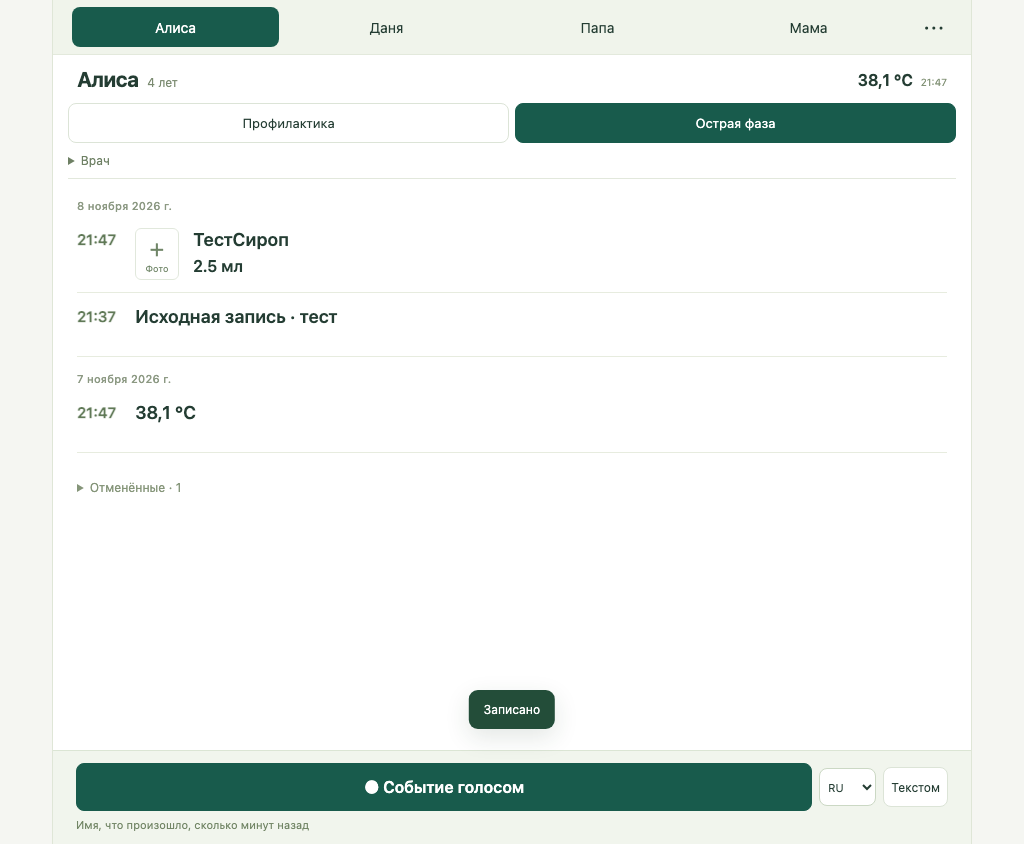
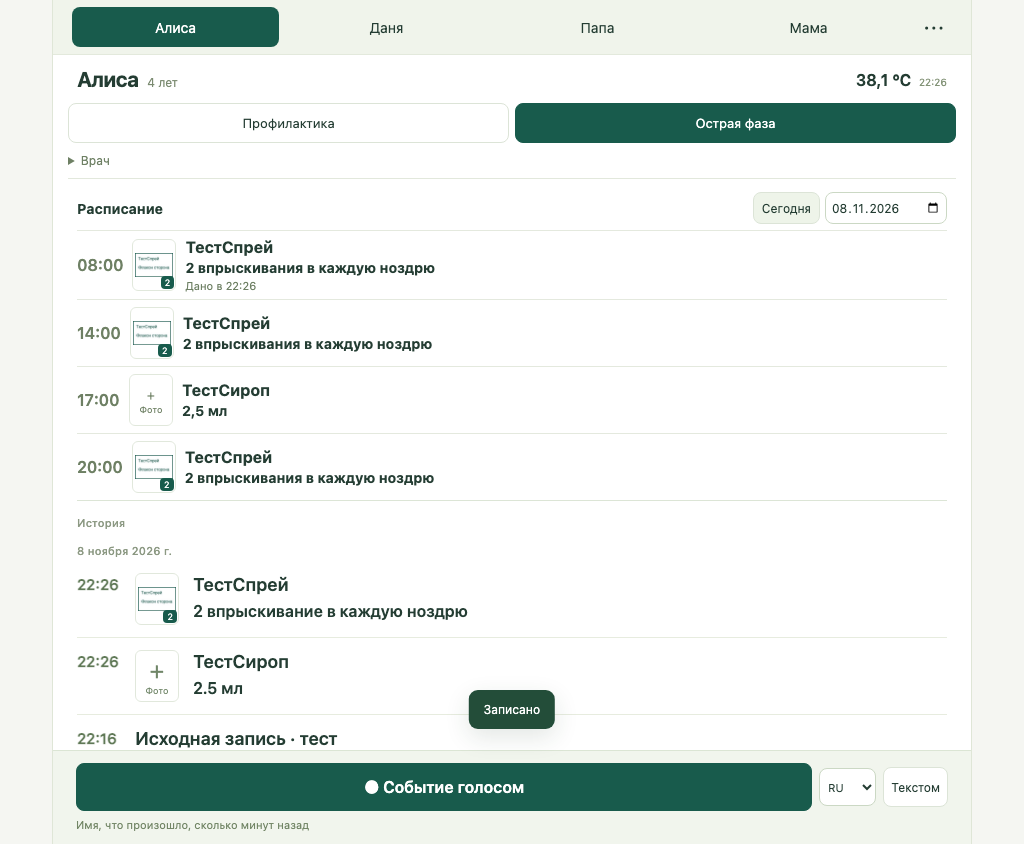
Show saved medication schedules on the patient screen

diff --git a/site/public/app.js b/site/public/app.js
@@ -2,7 +2,7 @@ import {captureVoice} from '/voice-capture.js';
 import {prescriptionSummary} from '/prescription-summary.js';
 import {photosForMedicine} from '/medicine-images.js';
 const $=(s,r=document)=>r.querySelector(s),root=$('#app'),modal=$('#modal');
-let state,token='',patientId=localStorage.getItem('medika-patient')||'',phrase='',busy=false,recording=null,voiceAt='',textEntry=false,language=localStorage.getItem('medika-language')||'ru';
+let state,schedule={items:[],prn:[]},scheduleDate='',token='',patientId=localStorage.getItem('medika-patient')||'',phrase='',busy=false,recording=null,voiceAt='',textEntry=false,language=localStorage.getItem('medika-language')||'ru';
 const kinds={temperature:'Температура',diarrhea:'Диарея',vomiting:'Рвота',retching:'Позывы к рвоте',inhalation:'Ингаляция',medication:'Лекарство',other:'Другое'};
 const phases={'':'Не выбран',prevention:'Профилактика',acute:'Острая фаза'};
 const units=['мл','мг','свеча','табл.','капс.','кап.','впрыскивание','пакет','доза','г','мкг','нанесение'];
@@ -10,6 +10,7 @@ const e=s=>String(s??'').replace(/[&<>"']/g,c=>({'&':'&amp;','<':'&lt;','>':'&gt
 const label=p=>p?.displayName||p?.name||'';
 const person=id=>state.people.find(p=>p.id===id),current=()=>person(patientId);
 const tz=()=>Intl.DateTimeFormat().resolvedOptions().timeZone||'Europe/Chisinau';
+const today=()=>new Date().toLocaleDateString('sv-SE',{timeZone:tz()});
 const key=()=>Date.now().toString(36)+'-'+Math.random().toString(36).slice(2);
 const value=r=>r.celsius.toLocaleString('ru-RU',{minimumFractionDigits:1,maximumFractionDigits:2})+' °C';
 const time=r=>new Date(r.occurredAt).toLocaleTimeString('ru-RU',{timeZone:r.timeZone,hour:'2-digit',minute:'2-digit'});
@@ -32,18 +33,30 @@ function records(id=patientId){
 function title(r){return r.kind==='temperature'?value(r):r.kind==='inhalation'?'Ингаляция · '+r.name:r.name||kinds[r.kind];}
 function amount(r){return [r.amount,r.unit,r.doseScope==='each-nostril'?'в каждую ноздрю':''].filter(Boolean).join(' ');}
 async function refresh(){
-  state=await api('/state');
+  const date=scheduleDate||today(),[nextState,nextSchedule]=await Promise.all([api('/state'),api('/schedule?date='+date)]);state=nextState;schedule={...nextSchedule,date};
   if(!person(patientId)){const latest=[...(state.activities||[]),...(state.temperatures||[]),...state.events].sort((a,b)=>b.occurredAt.localeCompare(a.occurredAt))[0];patientId=latest?.personId||state.people.find(p=>p.name==='Алиса')?.id||state.people[0]?.id||'';}
   if(patientId)localStorage.setItem('medika-patient',patientId);render();
 }
 function render(){
   if(!state.people.length){root.innerHTML='<main class="start"><h1>Медика</h1><button data-act="person">Добавить пациента</button></main>';return;}
   const p=current(),all=records(),active=all.filter(r=>r.status!=='void'),cancelled=all.filter(r=>r.status==='void'),last=active.find(r=>r.kind==='temperature');
-  root.innerHTML=`<div class="patient-app"><header class="patient-nav" aria-label="Пациенты">${state.people.map(p=>`<button data-patient="${p.id}" aria-pressed="${p.id===patientId}" ${busy||recording?'disabled':''}>${e(label(p))}</button>`).join('')}<button class="more" data-act="tools" aria-label="Ещё">⋯</button></header><section class="patient-summary"><h1>${e(label(p))}${p.ageYears!=null?`<small>${p.ageYears} лет</small>`:''}</h1>${last?`<span class="last-temperature">${value(last)} <time>${time(last)}</time></span>`:''}</section><div class="phase-switch" role="group" aria-label="Режим лечения">${['prevention','acute'].map(v=>`<button type="button" data-care-phase="${v}" aria-pressed="${p.carePhase===v}" ${busy||recording?'disabled':''}>${e(phases[v])}</button>`).join('')}</div><details class="doctor"><summary>Врач</summary><div class="doctor-body">${doctorPlan()}<div class="source-actions"><button data-act="upload">Выписка</button><button data-act="rx">Назначение</button></div></div></details><main class="patient-history" aria-label="История пациента">${active.length?historyRows(active):'<p class="quiet">Событий пока нет</p>'}${cancelled.length?`<details class="cancelled"><summary>Отменённые · ${cancelled.length}</summary>${historyRows(cancelled)}</details>`:''}</main><form id="composer" class="composer" aria-label="Общее событие для семьи"><div class="composer-actions"><button type="button" class="voice ${recording?'recording':''}" data-act="voice" ${busy?'disabled':''}>${recording?'■ Отправить':'● Событие голосом'}</button><select id="language" aria-label="Язык диктовки" ${busy||recording?'disabled':''}><option value="ru" ${language==='ru'?'selected':''}>RU</option><option value="en" ${language==='en'?'selected':''}>EN</option></select><button type="button" class="text-toggle" data-act="text" ${busy||recording?'disabled':''}>Текстом</button></div><div class="voice-status" role="status">${busy?'Распознаю и записываю…':recording?'Скажите имя и событие · пауза отправит запись':'Имя, что произошло, сколько минут назад'}</div>${textEntry?`<div class="text-entry"><textarea id="phrase" name="text" rows="1" placeholder="Даня, две минуты назад температура 38,2" aria-label="Запись одной фразой" ${busy||recording?'disabled':''}>${e(phrase)}</textarea><button type="submit" class="primary" ${busy||recording?'disabled':''}>Проверить</button></div>`:''}</form></div>`;
+  root.innerHTML=`<div class="patient-app"><header class="patient-nav" aria-label="Пациенты">${state.people.map(p=>`<button data-patient="${p.id}" aria-pressed="${p.id===patientId}" ${busy||recording?'disabled':''}>${e(label(p))}</button>`).join('')}<button class="more" data-act="tools" aria-label="Ещё">⋯</button></header><section class="patient-summary"><h1>${e(label(p))}${p.ageYears!=null?`<small>${p.ageYears} лет</small>`:''}</h1>${last?`<span class="last-temperature">${value(last)} <time>${time(last)}</time></span>`:''}</section><div class="phase-switch" role="group" aria-label="Режим лечения">${['prevention','acute'].map(v=>`<button type="button" data-care-phase="${v}" aria-pressed="${p.carePhase===v}" ${busy||recording?'disabled':''}>${e(phases[v])}</button>`).join('')}</div><details class="doctor"><summary>Врач</summary><div class="doctor-body">${doctorPlan()}<div class="source-actions"><button data-act="upload">Выписка</button><button data-act="rx">Назначение</button></div></div></details><main class="patient-history" aria-label="Расписание и история пациента">${patientSchedule()}${schedule.items.some(r=>r.personId===patientId)||schedule.prn.some(r=>r.personId===patientId)?'<h2 class="day">История</h2>':''}${active.length?historyRows(active):'<p class="quiet">Событий пока нет</p>'}${cancelled.length?`<details class="cancelled"><summary>Отменённые · ${cancelled.length}</summary>${historyRows(cancelled)}</details>`:''}</main><form id="composer" class="composer" aria-label="Общее событие для семьи"><div class="composer-actions"><button type="button" class="voice ${recording?'recording':''}" data-act="voice" ${busy?'disabled':''}>${recording?'■ Отправить':'● Событие голосом'}</button><select id="language" aria-label="Язык диктовки" ${busy||recording?'disabled':''}><option value="ru" ${language==='ru'?'selected':''}>RU</option><option value="en" ${language==='en'?'selected':''}>EN</option></select><button type="button" class="text-toggle" data-act="text" ${busy||recording?'disabled':''}>Текстом</button></div><div class="voice-status" role="status">${busy?'Распознаю и записываю…':recording?'Скажите имя и событие · пауза отправит запись':'Имя, что произошло, сколько минут назад'}</div>${textEntry?`<div class="text-entry"><textarea id="phrase" name="text" rows="1" placeholder="Даня, две минуты назад температура 38,2" aria-label="Запись одной фразой" ${busy||recording?'disabled':''}>${e(phrase)}</textarea><button type="submit" class="primary" ${busy||recording?'disabled':''}>Проверить</button></div>`:''}</form></div>`;
   $('#composer').onsubmit=event=>{event.preventDefault();parsePhrase();};
   if($('#phrase'))$('#phrase').oninput=event=>phrase=event.target.value;
+  if($('#schedule-date'))$('#schedule-date').onchange=event=>changeScheduleDate(event.target.value);
+  if($('#schedule-today'))$('#schedule-today').onclick=()=>changeScheduleDate('');
   $('#language').onchange=event=>{language=event.target.value;localStorage.setItem('medika-language',language);};
   root.querySelectorAll('[data-care-phase]').forEach(button=>button.onclick=async()=>{const carePhase=button.dataset.carePhase;if(busy||recording||carePhase===p.carePhase)return;busy=true;render();try{await api('/people/'+p.id,{method:'PUT',body:{...p,carePhase,version:p.version}});await refresh();}catch(error){toast(error.message);}finally{busy=false;render();$('.doctor').open=true;}});
+}
+async function changeScheduleDate(date){
+  if(busy||recording)return;busy=true;render();
+  try{const chosen=date||today(),result=await api('/schedule?date='+chosen);scheduleDate=date;schedule={...result,date:chosen};}catch(error){toast(error.message);}finally{busy=false;render();}
+}
+function patientSchedule(){
+  const items=schedule.items.filter(r=>r.personId===patientId),prn=schedule.prn.filter(r=>r.personId===patientId);
+  if(!items.length&&!prn.length&&!state.prescriptions.some(r=>r.personId===patientId&&!r.archived))return '';
+  const row=(r,asNeeded=false)=>{const recorded=r.event,status=recorded?({taken:'Дано в '+time(recorded),skipped:'Пропущено',deferred:'Отложено'}[recorded.status]||''):'';return `<div class="schedule-row" data-schedule-rx="${r.rxId||r.id}"><time>${asNeeded?'—':e(r.time)}</time>${medicinePhoto(r.name)}<div><strong>${e(r.name)}</strong><b>${e(prescriptionSummary(r).dose)}</b>${asNeeded?'<span>По необходимости</span>':''}${status?`<span>${e(status)}</span>`:''}</div></div>`;};
+  return `<section class="patient-schedule" aria-label="Расписание приёма"><header><h2>Расписание</h2><button id="schedule-today" type="button" aria-pressed="${schedule.date===today()}" ${busy||recording?'disabled':''}>Сегодня</button><input id="schedule-date" type="date" aria-label="Дата расписания" value="${e(schedule.date)}" min="1900-01-01" max="2200-12-31" ${busy||recording?'disabled':''}></header>${items.map(r=>row(r)).join('')}${prn.map(r=>row(r,true)).join('')}${!items.length&&!prn.length?'<p class="quiet">На эту дату приёмов нет.</p>':''}</section>`;
 }
 let photoClipId=0;
 function medicineImage(photo,name,preview=false){
@@ -88,7 +101,7 @@ function preview(d){
     const body={...data,sourceText:d.sourceText,timeZone:d.timeZone,occurredAt:new Date(data.occurredAt).toISOString(),clientKey};
     if(data.kind!=='temperature')delete body.celsius;
     if(!['medication','inhalation'].includes(data.kind)){body.amount='';body.unit='';body.relatedRxId='';}
-    const record=await api('/entries',{body});patientId=record.personId;phrase='';textEntry=false;modal.close();await refresh();toast('Записано');
+    const record=await api('/entries',{body});patientId=record.personId;phrase='';textEntry=false;await refresh();modal.close();toast('Записано');
   });
   const choose=$('[name="kind"]',modal),update=()=>{for(const part of modal.querySelectorAll('[data-part]')){const visible=part.dataset.part.split(' ').includes(choose.value);part.hidden=!visible;for(const input of part.querySelectorAll('input,select'))input.disabled=!visible;} $('[name="celsius"]',modal).required=choose.value==='temperature';$('[name="name"]',modal).required=['medication','inhalation','other'].includes(choose.value);};choose.onchange=update;update();
   $('[name="personId"]',modal).onchange=()=>{const select=$('[name="relatedRxId"]',modal);select.value='';for(const option of [...select.options].slice(1))option.remove();};
@@ -128,7 +141,7 @@ function documentView(id){const d=state.documents.find(d=>d.id===id);dialog(d.na
 function upload(){dialog('Выписка · '+label(current()),'<label>Фото или текст<input type="file" name="file" accept="image/png,image/jpeg,image/webp"></label><label>Текст<textarea name="text" maxlength="50000"></textarea></label>'+footer('Добавить'),async(data,form)=>{const file=$('[name="file"]',form).files[0];let image;if(file)image=await new Promise((resolve,reject)=>{const reader=new FileReader();reader.onload=()=>resolve(reader.result.split(',')[1]);reader.onerror=reject;reader.readAsDataURL(file);});await api('/documents',{body:{personId:patientId,name:file?.name||'Рекомендация врача',sourceKind:'doctor',...(image?{image}:{text:data.text})}});modal.close();await refresh();$('.doctor').open=true;});}
 function rxForm(id='',suggestion={},documentId=''){
   const r=state.prescriptions.find(r=>r.id===id)||suggestion,p=current();
-  dialog('Назначение врача',`<label>Предписание<select name="carePhase">${Object.entries(phases).map(([v,l])=>`<option value="${v}" ${v===(r.carePhase||p.carePhase||'')?'selected':''}>${l}</option>`).join('')}</select></label><details open><summary>Формулировка врача</summary><p class="source-text">${e(r.sourceText||'')}</p>${field('Условия','conditions',r.conditions,'maxlength="2000"')}${field('Концентрация','strength',r.strength,'maxlength="150"')}</details>${field('Препарат','name',r.name,'required maxlength="200"')}<div class="dose-fields">${field('Доза','dose',r.dose,'inputmode="decimal" required')}<label>Единица<select name="unit">${units.map(u=>`<option ${u===(r.unit||'мл')?'selected':''}>${u}</option>`).join('')}</select></label></div><label>Область дозы<select name="doseScope"><option value="total">Всего</option><option value="each-nostril" ${r.doseScope==='each-nostril'?'selected':''}>В каждую ноздрю</option></select></label>${field('Часы через запятую','times',Array.isArray(r.times)?r.times.join(', '):r.times||'',(r.type==='prn'||r.type==='interval'?'':'required ')+ 'placeholder="По согласованному расписанию"')}<div class="dose-fields">${field('Начало','startDate',r.startDate||'','type="date" required')}${field('Окончание · если известно','endDate',r.endDate||'','type="date"')}</div><label class="check"><input type="checkbox" name="confirmed" required>Сверено с назначением врача</label>${footer()}`,async data=>{await api('/prescriptions'+(id?'/'+id:''),{method:id?'PUT':'POST',body:{...r,...data,personId:p.id,type:r.type||'daily',timeZone:r.timeZone||tz(),confirmed:data.confirmed==='on',ingredients:Array.isArray(r.ingredients)?r.ingredients.join(' + '):r.ingredients||'',documentId:documentId||r.documentId||'',version:r.version,sourceText:r.sourceText||''}});modal.close();await refresh();$('.doctor').open=true;});
+  dialog('Назначение врача',`<label>Предписание<select name="carePhase">${Object.entries(phases).map(([v,l])=>`<option value="${v}" ${v===(r.carePhase||p.carePhase||'')?'selected':''}>${l}</option>`).join('')}</select></label><details open><summary>Формулировка врача</summary><p class="source-text">${e(r.sourceText||'')}</p>${field('Условия','conditions',r.conditions,'maxlength="2000"')}${field('Концентрация','strength',r.strength,'maxlength="150"')}</details>${field('Препарат','name',r.name,'required maxlength="200"')}<div class="dose-fields">${field('Доза','dose',r.dose,'inputmode="decimal" required')}<label>Единица<select name="unit">${units.map(u=>`<option ${u===(r.unit||'мл')?'selected':''}>${u}</option>`).join('')}</select></label></div><label>Область дозы<select name="doseScope"><option value="total">Всего</option><option value="each-nostril" ${r.doseScope==='each-nostril'?'selected':''}>В каждую ноздрю</option></select></label>${field('Часы через запятую','times',Array.isArray(r.times)?r.times.join(', '):r.times||'',(r.type==='prn'||r.type==='interval'?'':'required ')+ 'placeholder="По согласованному расписанию"')}<div class="dose-fields">${field('Начало','startDate',r.startDate||'','type="date" required')}${field('Окончание · если известно','endDate',r.endDate||'','type="date"')}</div><label class="check"><input type="checkbox" name="confirmed" required>Сверено с назначением врача</label>${footer()}`,async data=>{await api('/prescriptions'+(id?'/'+id:''),{method:id?'PUT':'POST',body:{...r,...data,personId:p.id,type:r.type||'daily',timeZone:r.timeZone||tz(),confirmed:data.confirmed==='on',ingredients:Array.isArray(r.ingredients)?r.ingredients.join(' + '):r.ingredients||'',documentId:documentId||r.documentId||'',version:r.version,sourceText:r.sourceText||''}});scheduleDate=data.startDate>today()?data.startDate:data.endDate&&data.endDate<today()?data.endDate:'';modal.close();await refresh();$('.patient-history').scrollTop=0;});
 }
 root.addEventListener('click',async event=>{
   const tab=event.target.closest('[data-patient]');if(tab&&!busy&&!recording){patientId=tab.dataset.patient;localStorage.setItem('medika-patient',patientId);render();return;}

diff --git a/site/public/style.css b/site/public/style.css
@@ -7,3 +7,5 @@
 .medicine-photo,.order .medicine-photo{position:relative;flex:0 0 44px;width:44px;height:52px;min-height:52px;padding:2px;border:1px solid #e1e8dc;background:#fff;border-radius:6px;overflow:hidden;align-self:center}.medicine-photo img{display:block;width:100%;height:100%;object-fit:contain}.medicine-photo span{display:block;font-size:21px;color:#708668;line-height:1}.medicine-photo span small{display:block;font-size:9px;margin-top:4px}.medicine-photo>small{position:absolute;right:1px;bottom:1px;border-radius:4px;padding:1px 4px;background:#185b4c;color:#fff;font-size:9px}.package-photos{display:flex;gap:12px;justify-content:center;align-items:start}.package-photos>div{flex:1;min-width:0;text-align:center}.package-photos img{display:block;max-width:100%;height:210px;object-fit:contain;margin:auto}.package-photos a{display:block;font-size:11px;margin-top:6px}.record>summary .medicine-photo{margin:0}.record>summary .medicine-photo small{font-weight:400}
 
 .medicine-photo svg{display:block;width:100%;height:100%;overflow:hidden}.package-photos svg{display:block;width:100%;height:210px;overflow:hidden}.package-photos>div>b{display:block;font-size:12px;margin-bottom:8px}.package-photos img{width:auto}label>small{display:block;font-weight:400;font-size:12px;color:#63765d;margin:4px 0}
+
+.patient-schedule{padding-top:8px;border-bottom:1px solid #dce5d6;margin-bottom:12px}.patient-schedule>header{display:grid;grid-template-columns:1fr auto auto;gap:5px;align-items:center;padding-bottom:6px}.patient-schedule h2{font-size:14px;margin:0}.patient-schedule>header button{font-size:12px;padding:5px 8px;min-height:32px}.patient-schedule>header button[aria-pressed=true]{background:#eef4e9}.patient-schedule input{width:122px;font-size:12px;padding:5px;min-height:32px}.schedule-row{display:flex;align-items:center;gap:9px;padding:7px 0;border-top:1px solid #e4e9de}.schedule-row>time{flex:0 0 43px;font-size:16px;font-weight:600;color:#6e8064}.schedule-row>div{flex:1;min-width:0}.schedule-row strong,.schedule-row b,.schedule-row span{display:block;overflow-wrap:anywhere}.schedule-row strong{font-size:16px}.schedule-row b{font-size:14px;margin-top:3px}.schedule-row span{font-size:11px;color:#6e8064;margin-top:3px}.patient-schedule .quiet{margin:8px 0 12px}

diff --git a/PROJECT.md b/PROJECT.md
@@ -14,6 +14,8 @@
 
 «Две минуты назад», «пять минут назад», «минуту назад», «полчаса назад» пересчитываются относительно начала фактической записи, а не конца распознавания. Таблетка/свечка в единственном числе означает одну штуку; содержание в мг хранится отдельно и не вычисляется из назначения. Позывы к рвоте — отдельное событие, они не считаются состоявшейся рвотой. Несколько событий записывать отдельными фразами.
 
+После сохранения курса на основном экране пациента над историей видно расписание: время, препарат, фото и доза. Кнопка «Сегодня» возвращает текущий день, календарь показывает другую дату. Сохранение будущего курса открывает его дату начала; текущего — сегодняшний день. «По необходимости» не получает выдуманных часов. Отметки из плановых приёмов видны рядом со слотом; самостоятельные голосовые факты остаются в истории и автоматически к слоту не приравниваются. Сохранённые курсы не скрываются переключением контекста врача.
+
 Пациенты сверху нужны для просмотра истории; после голосовой записи откроется история названного человека. Текстовый ввод свёрнут под «Текстом» и остаётся способом ручной проверки. Неясные значения, диапазоны, отрицания и неподтверждённые прошлые часы автоматически в положительный факт не превращаются. Сложная речь может потребовать исправления. Смысл фразы разбирает GPT-6.1 Terra через существующий вход Codex/ChatGPT; модель не назначает лечение.
 
 Микрофону браузера на iPad нужен доверенный HTTPS. Один раз скачать http://macbook-air-5.local/medika-ca.cer, установить профиль в настройках iPad и включить доверие **Medika Local Root** в «Основные → Об этом устройстве → Доверие сертификатам». Затем открыть **https://macbook-air-5.local** (или https://192.168.0.38) и разрешить микрофон. Подсказка доступна по «Говорить» на HTTP. Без установки можно вводить текст, использовать диктовку клавиатуры или выбрать WAV/M4A/AIFF. Диктовкой клавиатуры управляет ОС; локальный Whisper используется кнопкой приложения и для загруженного аудио.
